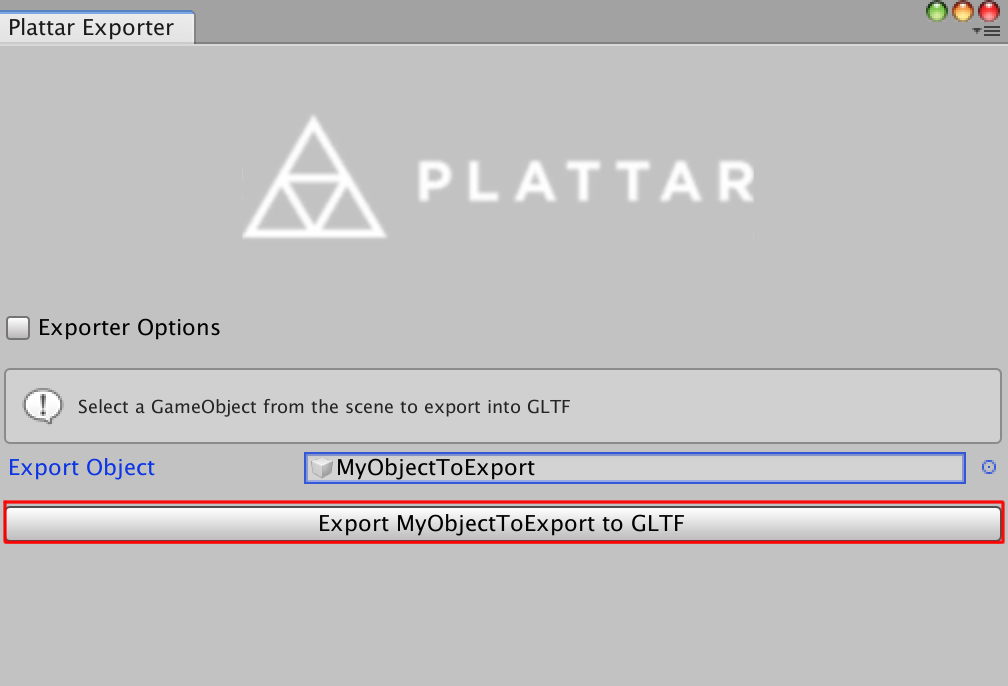
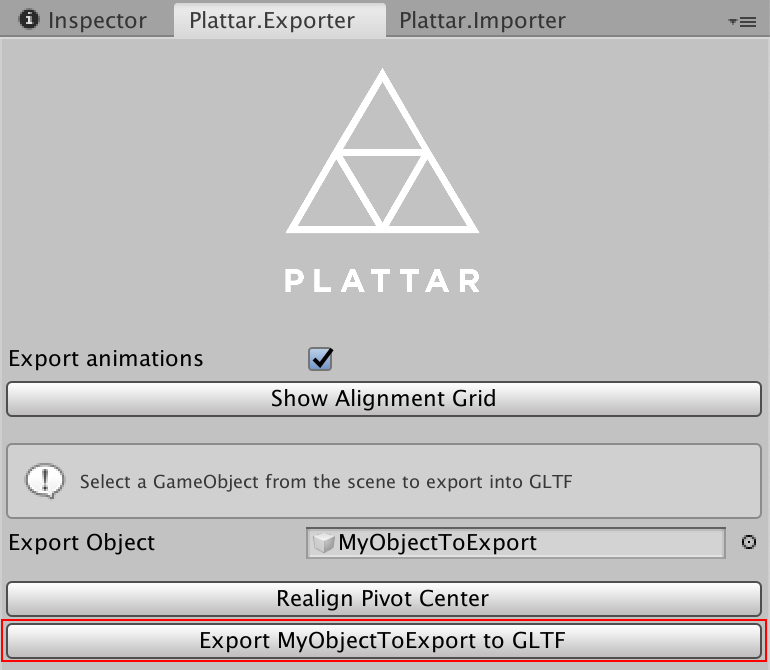
- Updated Readme and graphics to reflect the current interface

diff --git a/README.md b/README.md
@@ -5,7 +5,7 @@ _GLTF Exporter_ is a [Unity3D](https://unity3d.com/) Editor Tool that allows exp
 
 ***
 
-### Before usage
+### Before usage 
 
 Ensure to remove all converters that depend on the [UnityGLTF](https://github.com/KhronosGroup/UnityGLTF). This is to ensure there are no script clashes or compatibility issues.
 
@@ -15,7 +15,7 @@ Grab the latest Unity3D Package release from the [releases](https://github.com/P
 
 Once the _GLTF Exporter_ tool has been imported you will see a new Toolbar in Unity3D.
 <h3 align="left">
-  <img src="graphics/toolbar.png?raw=true" alt="Unity3D Toolbar" width="600">
+  <img src="graphics/toolbar.png?raw=true" alt="Unity3D Toolbar" width="400">
 </h3>
 
 Clicking on the _Plattar_ Toolbar will present the following editor wizard.
@@ -31,9 +31,10 @@ Either select or drag and drop the **GameObject** you'd like to export and click
 You will be asked for a destination to export the GLTF files. The exporter will automatically zip all files and textures.
 
 Supported Unity objects and features so far:
-- Scene objects such as transforms and meshes
-- PBR materials (both *Standard* and *Standard (Specular setup)* for metal/smoothness and specular/smoothness respectively). Other materials may also be exported but not with all their channels.
-- Solid and skinning animation (note that custom scripts or *humanoid* skeletal animation are not exported yet).
+
+* Scene objects such as transforms and meshes
+* PBR materials (both *Standard* and *Standard (Specular setup)* for metal/smoothness and specular/smoothness respectively). Other materials may also be exported but not with all their channels.
+* Solid and skinning animation (note that custom scripts or *humanoid* skeletal animation are not exported yet).
 
 *(Note that animation is still in beta)*
 
@@ -53,5 +54,6 @@ This plugin is being updated with glTF file format. It's strongly recommended to
 
 This tool relies on the following open source projects.
 
-- [KhronosGroup UnityGLTF](https://github.com/KhronosGroup/UnityGLTF)
-- [Sketchfab UnityGLTF](https://github.com/sketchfab/UnityGLTF)
+* [KhronosGroup UnityGLTF](https://github.com/KhronosGroup/UnityGLTF)
+* [Sketchfab UnityGLTF](https://github.com/sketchfab/UnityGLTF)
+
